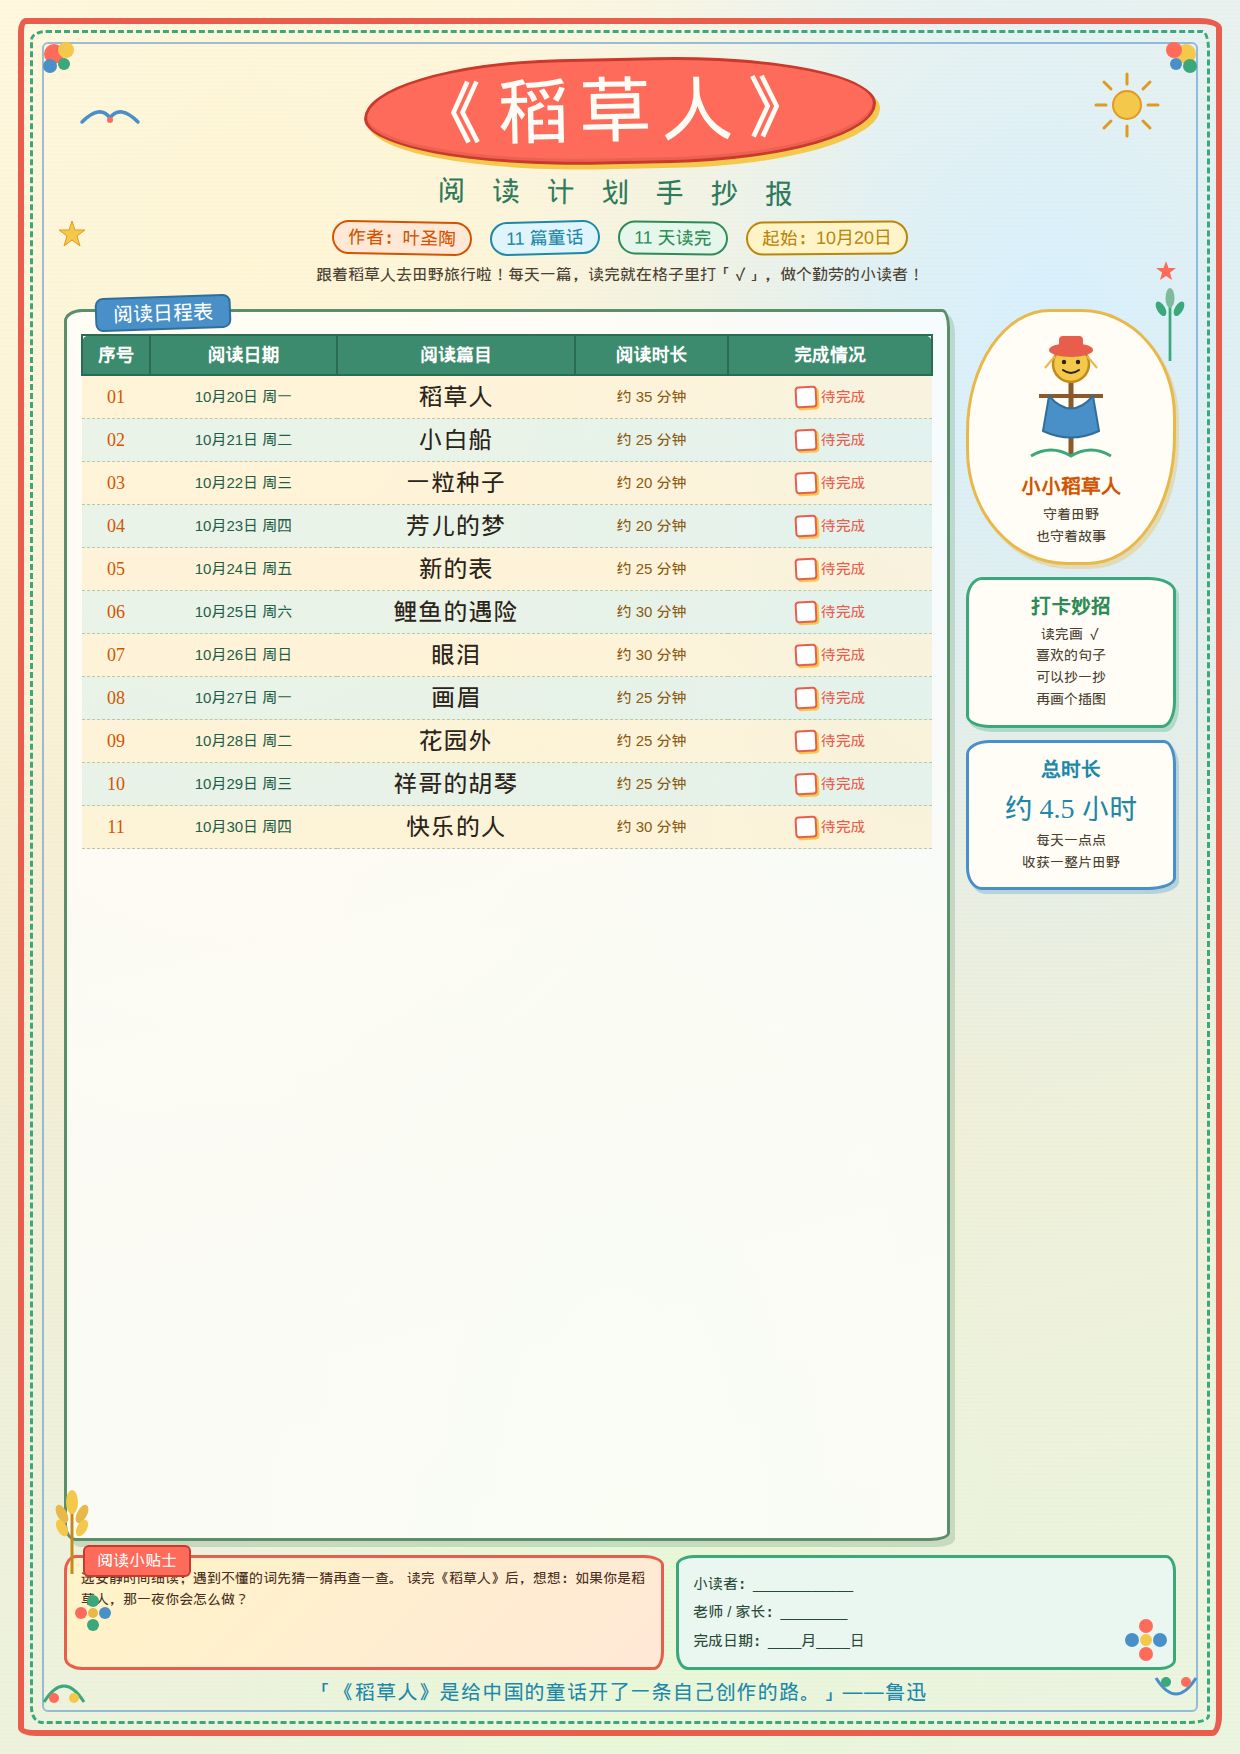
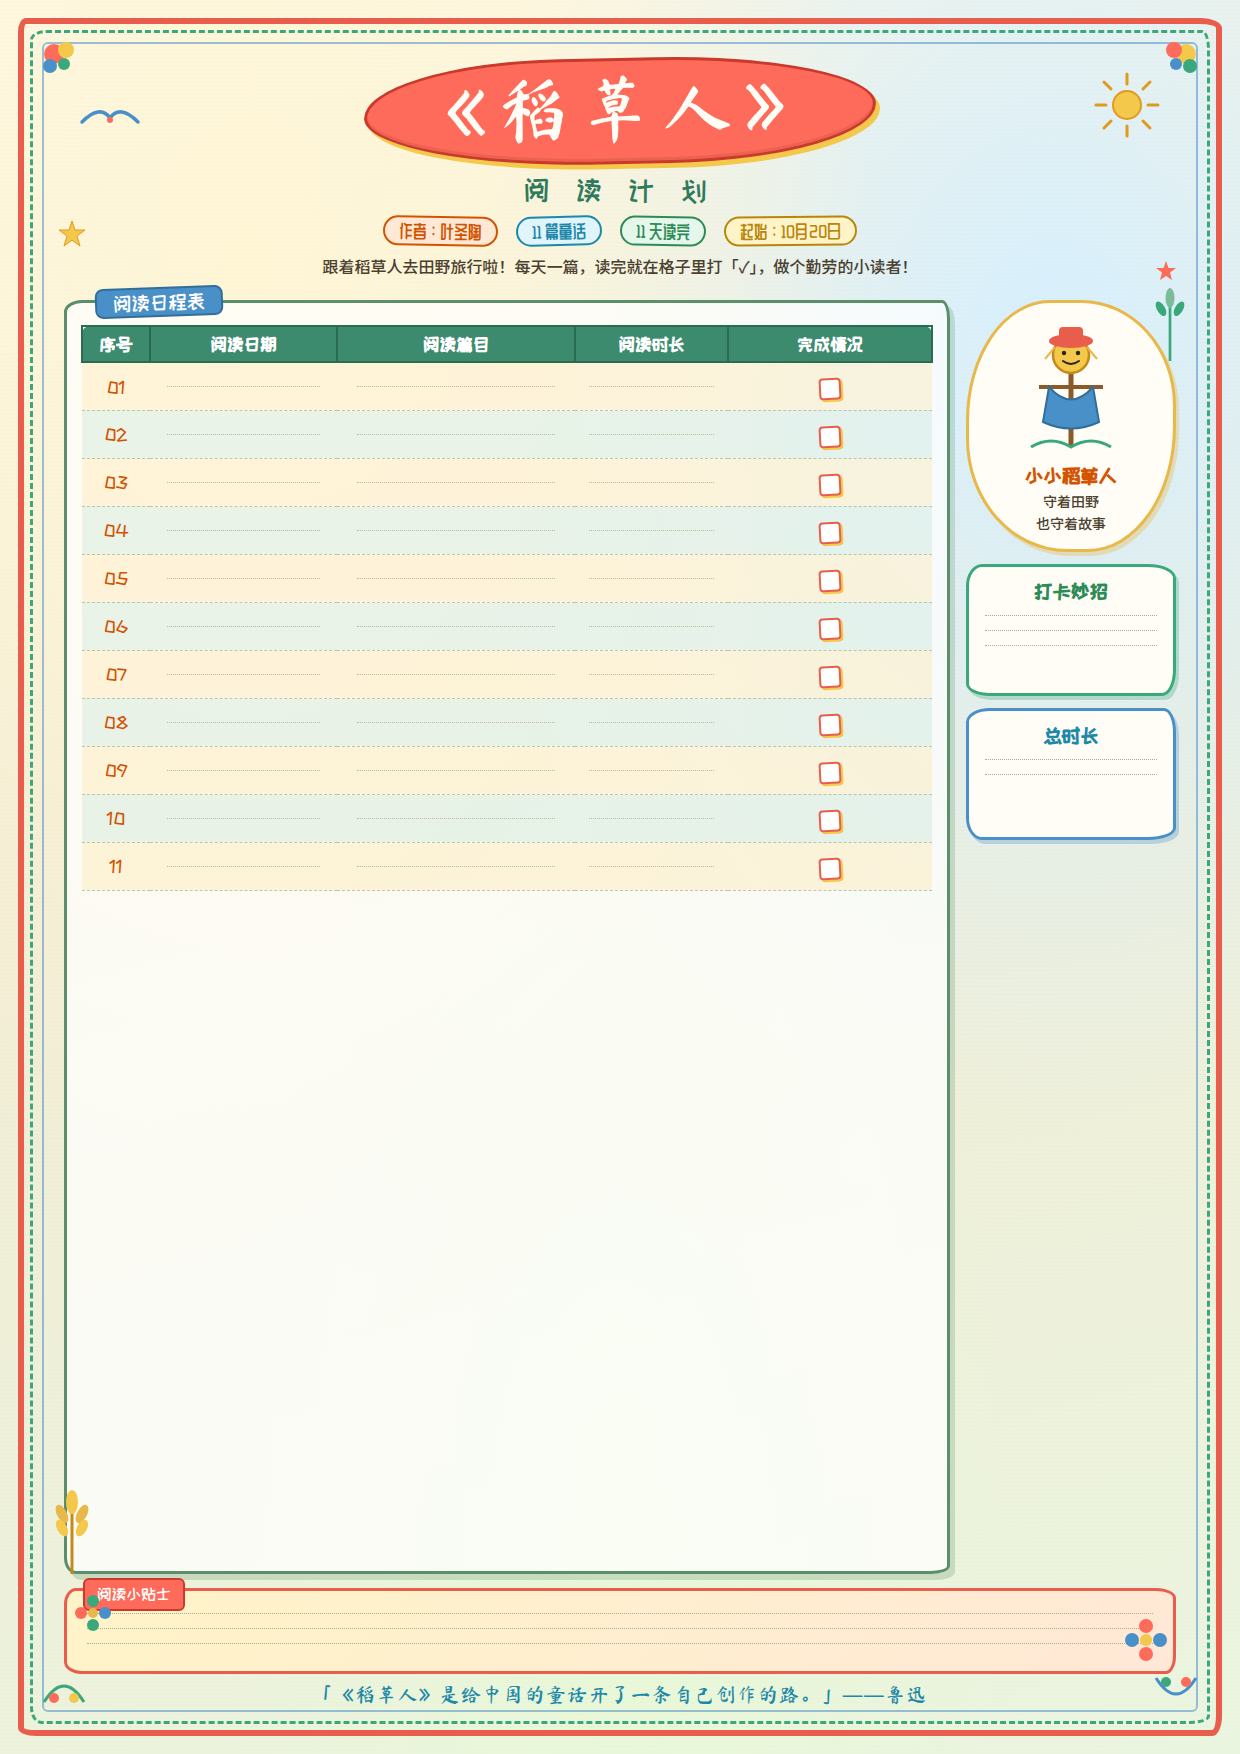
Blank out fill-in fields on 《稻草人》 reading plan poster
Remove 手抄报 label, clear table body text, tip/duration copy,
and signature labels so students can write by hand.

Changed region(s): [[0.0613, 0.0308, 0.95, 0.5234], [0.0306, 0.862, 0.95, 0.9852], [0.9194, 0.1847, 0.95, 0.2155]]

diff --git a/WebContent/稻草人阅读计划-手抄报.html b/WebContent/稻草人阅读计划-手抄报.html
@@ -2,7 +2,7 @@
 <html lang="zh-CN">
 <head>
   <meta charset="UTF-8" />
-  <title>《稻草人》阅读计划 · 手抄报</title>
+  <title>《稻草人》阅读计划</title>
   <link rel="preconnect" href="https://fonts.googleapis.com" />
   <link rel="preconnect" href="https://fonts.gstatic.com" crossorigin />
   <link href="https://fonts.googleapis.com/css2?family=Ma+Shan+Zheng&family=ZCOOL+KuaiLe&family=ZCOOL+QingKe+HuangYou&family=Noto+Sans+SC:wght@500;700&display=swap" rel="stylesheet" />
@@ -237,6 +237,23 @@
       width: 24%;
     }
 
+    tbody td {
+      height: 48px;
+    }
+
+    td.fill-line {
+      position: relative;
+    }
+
+    td.fill-line::after {
+      content: "";
+      display: block;
+      width: 86%;
+      height: 0;
+      margin: 0 auto;
+      border-bottom: 1.5px dotted #c4b89a;
+    }
+
     .tick-box {
       display: inline-block;
       width: 22px;
@@ -249,11 +266,22 @@
       box-shadow: 2px 2px 0 #f4c84a;
     }
 
-    .status-text {
-      font-family: "ZCOOL KuaiLe", cursive;
-      font-size: 15px;
-      color: #e85d4c;
-      margin-left: 4px;
+    .blank-area {
+      min-height: 72px;
+      margin-top: 4px;
+    }
+
+    .blank-lines {
+      display: flex;
+      flex-direction: column;
+      gap: 14px;
+      padding: 8px 6px 4px;
+    }
+
+    .blank-lines i {
+      display: block;
+      height: 0;
+      border-bottom: 1.5px dotted #b8a88a;
     }
 
     /* Side column decorations */
@@ -480,7 +508,7 @@
         <div class="title-banner">
           <h1>《稻草人》</h1>
         </div>
-        <p class="subtitle">阅 读 计 划 手 抄 报</p>
+        <p class="subtitle">阅 读 计 划</p>
         <div class="meta-row">
           <span class="chip">作者：叶圣陶</span>
           <span class="chip">11 篇童话</span>
@@ -505,80 +533,80 @@
             <tbody>
               <tr>
                 <td class="num">01</td>
-                <td class="date">10月20日 周一</td>
-                <td class="title">稻草人</td>
-                <td class="duration">约 35 分钟</td>
-                <td class="status"><span class="tick-box"></span><span class="status-text">待完成</span></td>
+                <td class="date fill-line"></td>
+                <td class="title fill-line"></td>
+                <td class="duration fill-line"></td>
+                <td class="status"><span class="tick-box"></span></td>
               </tr>
               <tr>
                 <td class="num">02</td>
-                <td class="date">10月21日 周二</td>
-                <td class="title">小白船</td>
-                <td class="duration">约 25 分钟</td>
-                <td class="status"><span class="tick-box"></span><span class="status-text">待完成</span></td>
+                <td class="date fill-line"></td>
+                <td class="title fill-line"></td>
+                <td class="duration fill-line"></td>
+                <td class="status"><span class="tick-box"></span></td>
               </tr>
               <tr>
                 <td class="num">03</td>
-                <td class="date">10月22日 周三</td>
-                <td class="title">一粒种子</td>
-                <td class="duration">约 20 分钟</td>
-                <td class="status"><span class="tick-box"></span><span class="status-text">待完成</span></td>
+                <td class="date fill-line"></td>
+                <td class="title fill-line"></td>
+                <td class="duration fill-line"></td>
+                <td class="status"><span class="tick-box"></span></td>
               </tr>
               <tr>
                 <td class="num">04</td>
-                <td class="date">10月23日 周四</td>
-                <td class="title">芳儿的梦</td>
-                <td class="duration">约 20 分钟</td>
-                <td class="status"><span class="tick-box"></span><span class="status-text">待完成</span></td>
+                <td class="date fill-line"></td>
+                <td class="title fill-line"></td>
+                <td class="duration fill-line"></td>
+                <td class="status"><span class="tick-box"></span></td>
               </tr>
               <tr>
                 <td class="num">05</td>
-                <td class="date">10月24日 周五</td>
-                <td class="title">新的表</td>
-                <td class="duration">约 25 分钟</td>
-                <td class="status"><span class="tick-box"></span><span class="status-text">待完成</span></td>
+                <td class="date fill-line"></td>
+                <td class="title fill-line"></td>
+                <td class="duration fill-line"></td>
+                <td class="status"><span class="tick-box"></span></td>
               </tr>
               <tr>
                 <td class="num">06</td>
-                <td class="date">10月25日 周六</td>
-                <td class="title">鲤鱼的遇险</td>
-                <td class="duration">约 30 分钟</td>
-                <td class="status"><span class="tick-box"></span><span class="status-text">待完成</span></td>
+                <td class="date fill-line"></td>
+                <td class="title fill-line"></td>
+                <td class="duration fill-line"></td>
+                <td class="status"><span class="tick-box"></span></td>
               </tr>
               <tr>
                 <td class="num">07</td>
-                <td class="date">10月26日 周日</td>
-                <td class="title">眼泪</td>
-                <td class="duration">约 30 分钟</td>
-                <td class="status"><span class="tick-box"></span><span class="status-text">待完成</span></td>
+                <td class="date fill-line"></td>
+                <td class="title fill-line"></td>
+                <td class="duration fill-line"></td>
+                <td class="status"><span class="tick-box"></span></td>
               </tr>
               <tr>
                 <td class="num">08</td>
-                <td class="date">10月27日 周一</td>
-                <td class="title">画眉</td>
-                <td class="duration">约 25 分钟</td>
-                <td class="status"><span class="tick-box"></span><span class="status-text">待完成</span></td>
+                <td class="date fill-line"></td>
+                <td class="title fill-line"></td>
+                <td class="duration fill-line"></td>
+                <td class="status"><span class="tick-box"></span></td>
               </tr>
               <tr>
                 <td class="num">09</td>
-                <td class="date">10月28日 周二</td>
-                <td class="title">花园外</td>
-                <td class="duration">约 25 分钟</td>
-                <td class="status"><span class="tick-box"></span><span class="status-text">待完成</span></td>
+                <td class="date fill-line"></td>
+                <td class="title fill-line"></td>
+                <td class="duration fill-line"></td>
+                <td class="status"><span class="tick-box"></span></td>
               </tr>
               <tr>
                 <td class="num">10</td>
-                <td class="date">10月29日 周三</td>
-                <td class="title">祥哥的胡琴</td>
-                <td class="duration">约 25 分钟</td>
-                <td class="status"><span class="tick-box"></span><span class="status-text">待完成</span></td>
+                <td class="date fill-line"></td>
+                <td class="title fill-line"></td>
+                <td class="duration fill-line"></td>
+                <td class="status"><span class="tick-box"></span></td>
               </tr>
               <tr>
                 <td class="num">11</td>
-                <td class="date">10月30日 周四</td>
-                <td class="title">快乐的人</td>
-                <td class="duration">约 30 分钟</td>
-                <td class="status"><span class="tick-box"></span><span class="status-text">待完成</span></td>
+                <td class="date fill-line"></td>
+                <td class="title fill-line"></td>
+                <td class="duration fill-line"></td>
+                <td class="status"><span class="tick-box"></span></td>
               </tr>
             </tbody>
           </table>
@@ -613,26 +641,25 @@
 
           <div class="doodle-card green">
             <h3>打卡妙招</h3>
-            <p>读完画 ✓<br/>喜欢的句子<br/>可以抄一抄<br/>再画个插图</p>
+            <div class="blank-area blank-lines" aria-hidden="true">
+              <i></i><i></i><i></i>
+            </div>
           </div>
 
           <div class="doodle-card blue">
             <h3>总时长</h3>
-            <p style="font-family:'ZCOOL KuaiLe',cursive;font-size:28px;color:#1e88a8;">约 4.5 小时</p>
-            <p>每天一点点<br/>收获一整片田野</p>
+            <div class="blank-area blank-lines" aria-hidden="true">
+              <i></i><i></i>
+            </div>
           </div>
         </aside>
       </div>
 
-      <div class="footer">
+      <div class="footer" style="grid-template-columns: 1fr;">
         <div class="tip-box">
-          选安静时间细读；遇到不懂的词先猜一猜再查一查。
-          读完《稻草人》后，想想：如果你是稻草人，那一夜你会怎么做？
-        </div>
-        <div class="sign-box">
-          小读者：____________<br/>
-          老师 / 家长：________<br/>
-          完成日期：____月____日
+          <div class="blank-area blank-lines" aria-hidden="true" style="min-height: 56px;">
+            <i></i><i></i><i></i>
+          </div>
         </div>
       </div>
 
